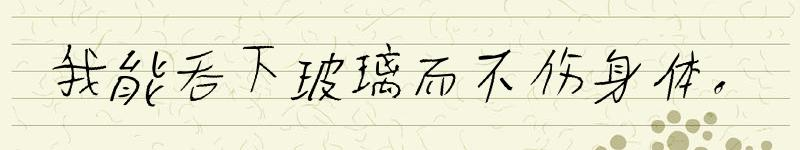
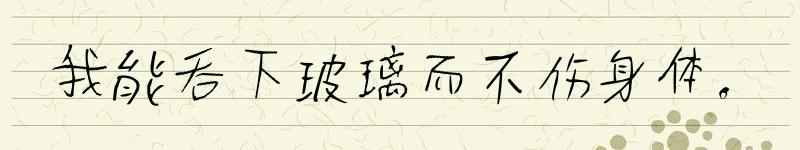
将0作为word_spacing的缺省值;update test code and docs;etc.

Changed region(s): [[0.0625, 0.2933, 0.9375, 0.72]]

diff --git a/pylf/_handwriting.py b/pylf/_handwriting.py
@@ -5,8 +5,11 @@ import PIL.Image
 import PIL.ImageDraw
 
 
+_DEFAULT_COLOR = (0, 0, 0)
+_DEFAULT_WORD_SPACING = 0
+_DEFAULT_IS_HALF_CHARS = lambda c: False
 # Chinese, English and other end chars
-_END_CHARS = "，。》、？；：’”】｝、！％）" + ",.>?;:]}!%)" + "′″℃℉"
+_DEFAULT_IS_END_CHARS = lambda c: c in ("，。》、？；：’”】｝、！％）" + ",.>?;:]}!%)" + "′″℃℉")
 
 
 def handwrite(text, template: dict, anti_aliasing: bool=True, worker: int=0) -> list:
@@ -31,12 +34,16 @@ def handwrite(text, template: dict, anti_aliasing: bool=True, worker: int=0) -> 
         'font': <FreeTypeFont>
             NOTE: the size of the FreeTypeFont Object means nothing in the function.
         'font_size': <int>
+            The average font size in pixel
         'font_size_sigma': <float>
             The sigma of the gauss distribution of the font size
         'line_spacing': <int>
+            The average line spacing in pixel
         'line_spacing_sigma': <float>
             The sigma of the gauss distribution of the line spacing
         'word_spacing': <int>
+            The average gap between two adjacent char in pixel
+            default: 0
         'word_spacing_sigma': <float>
             The sigma of the gauss distribution of the word spacing
 
@@ -80,13 +87,16 @@ def handwrite(text, template: dict, anti_aliasing: bool=True, worker: int=0) -> 
     :return: a list of drawn images
     """
     template = dict(template)
-    font_size = template['font_size']
     if 'color' not in template:
-        template['color'] = (0, 0, 0)
+        template['color'] = _DEFAULT_COLOR
+    if 'word_spacing' not in template:
+        template['word_spacing'] = _DEFAULT_WORD_SPACING
     if 'is_half_char' not in template:
-        template['is_half_char'] = lambda c: False
+        template['is_half_char'] = _DEFAULT_IS_HALF_CHARS
     if 'is_end_char' not in template:
-        template['is_end_char'] = lambda c: c in _END_CHARS
+        template['is_end_char'] = _DEFAULT_IS_END_CHARS
+
+    font_size = template['font_size']
     if 'x_amplitude' not in template:
         template['x_amplitude'] = 0.06 * font_size
     if 'y_amplitude' not in template:

diff --git a/examples/hetangyuese.py b/examples/hetangyuese.py
@@ -12,7 +12,6 @@ def main():
         'font_size_sigma': 0.1,
         'line_spacing': 27,
         'line_spacing_sigma': 0.1,
-        'word_spacing': 0,
         'word_spacing_sigma': 0.1,
     }
     text = """                                         荷塘月色

diff --git a/examples/i_can_eat_glass.py b/examples/i_can_eat_glass.py
@@ -12,7 +12,6 @@ def main():
         'font_size_sigma': 1,
         'line_spacing': 60,
         'line_spacing_sigma': 0.5,
-        'word_spacing': 0,
         'word_spacing_sigma': 1,
     }
     text = "我能吞下玻璃而不伤身体。"

diff --git a/tests/test_handwrite.py b/tests/test_handwrite.py
@@ -11,7 +11,6 @@ template = {
     'font_size_sigma': 0.5,
     'line_spacing': 33,
     'line_spacing_sigma': 0.5,
-    'word_spacing': 0,
     'word_spacing_sigma': 1,
 }
 text = """我能吞下玻璃而不伤身体。"""

diff --git a/README.md b/README.md
@@ -42,8 +42,6 @@
             'line_spacing': 15,
             # 绝对值越大行间距大小的方差越大  
             'line_spacing_sigma': 0.1,
-            # 字间距
-            'word_spacing': 10,
             # 绝对值越大字间距大小的方差越大  
             'word_spacing_sigma': 0.1,
         }

diff --git a/docs/Windows用户必读.md b/docs/Windows用户必读.md
@@ -26,7 +26,6 @@
             'font_size_sigma': 0.1,
             'line_spacing': 15,
             'line_spacing_sigma': 0.1,
-            'word_spacing': 10,
             'word_spacing_sigma': 0.1,
         }
         text = """我能吞下玻璃而不伤身体。"""

diff --git a/NEWS.md b/NEWS.md
@@ -2,6 +2,8 @@
 This file records the main changes in *PyLf* library in reverse chronological order.
 
 ## in progress version
+* **将0作为*word_spacing*的缺省值**
+* 完善文档
 
 ## v0.5.1 (2017-12-14)
 * fix #2
